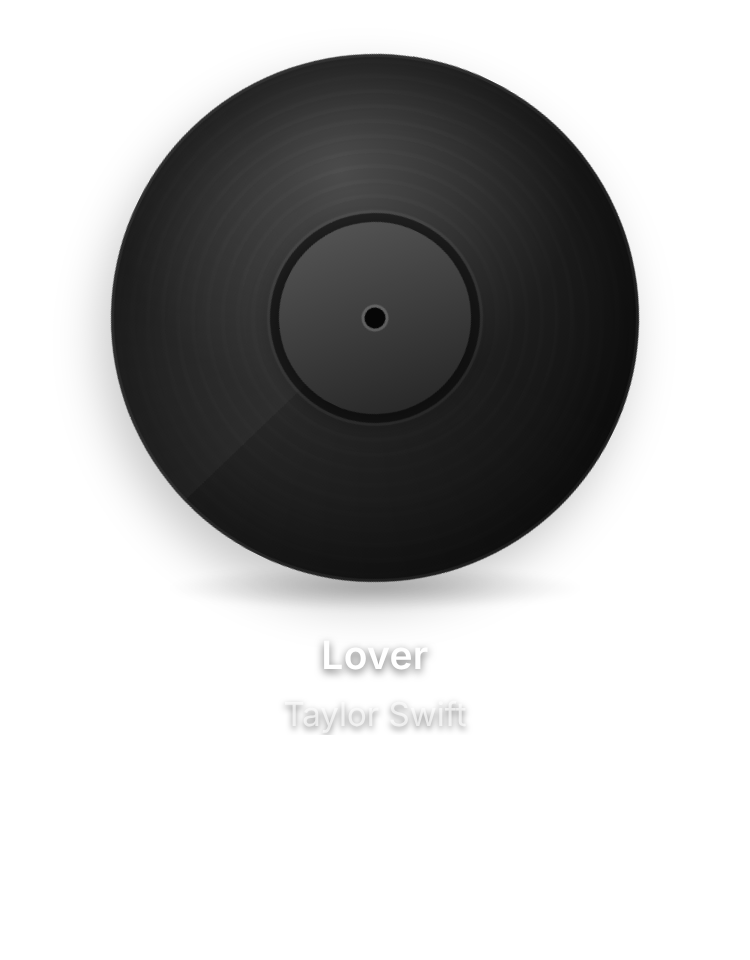
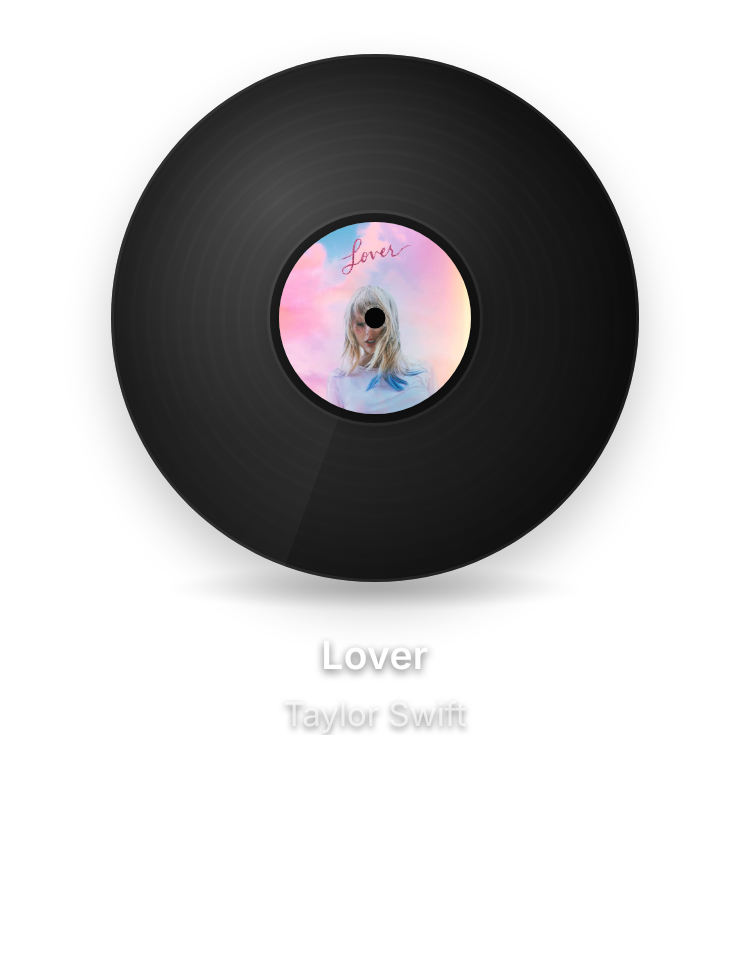
Landing page: album cover on the Play a song capture (#8)
* feat: redesign landing page with Hallmark (Lumen theme)

Replace the template look (eyebrow pills, drawn mac windows, drawn
browser logos, ticker, glow blobs, icon tiles) with a dark Lumen system:
Instrument Serif heads, Geist body, the brand amber as the one signal.
The hero and the how-it-works switcher now show real captures of the
widget renderer instead of a CSS mock. All 11 links are kept; the
unmeasured "Detected in <1s" claim is dropped.

Claude-Session: https://claude.ai/code/session_01LxcXJEm5p8BJAVphdhxh7A

* chore: ignore .hallmark design-tool scratch output

Claude-Session: https://claude.ai/code/session_01LxcXJEm5p8BJAVphdhxh7A

* feat: English-only landing page, Gloock + Hanken Grotesk, spinning hero record

- Replace Instrument Serif/Geist and lowercase heads with Gloock over
  Hanken Grotesk in sentence case
- Hero record now spins continuously (split capture: disc layer over the
  widget base), with a pause control and reduced-motion fallback
- Drop the idle widget capture that showed Korean UI text; English meta
  description

Claude-Session: https://claude.ai/code/session_01LxcXJEm5p8BJAVphdhxh7A

* feat: use Schibsted Grotesk and Martian Mono on the landing page

Same faces as the kiln project. Display at 800 with tight tracking,
item titles at 500. Tabular numerals now apply only to the mono
readouts, since Schibsted's tabular figures widen periods and commas.

Claude-Session: https://claude.ai/code/session_01LxcXJEm5p8BJAVphdhxh7A
[…]

Changed region(s): [[0.368, 0.2188, 0.644, 0.4375]]

diff --git a/landing-page/index.html b/landing-page/index.html
@@ -305,7 +305,7 @@ html:not(.js) .loop-toggle { display: none; }
             </div>
             <figure class="stage stage--state">
               <div class="shot" data-slot="state-play" data-kind="product" data-alt="The widget playing a song with album art on the label">
-                <img src="img/widget-playing.png" width="750" height="960" loading="lazy" alt="The widget playing Lover by Taylor Swift">
+                <img src="img/widget-playing.png" width="750" height="960" loading="lazy" alt="The widget playing Lover by Taylor Swift, the album cover on the record label">
               </div>
               <figcaption><span class="readout">Now playing</span></figcaption>
             </figure>
